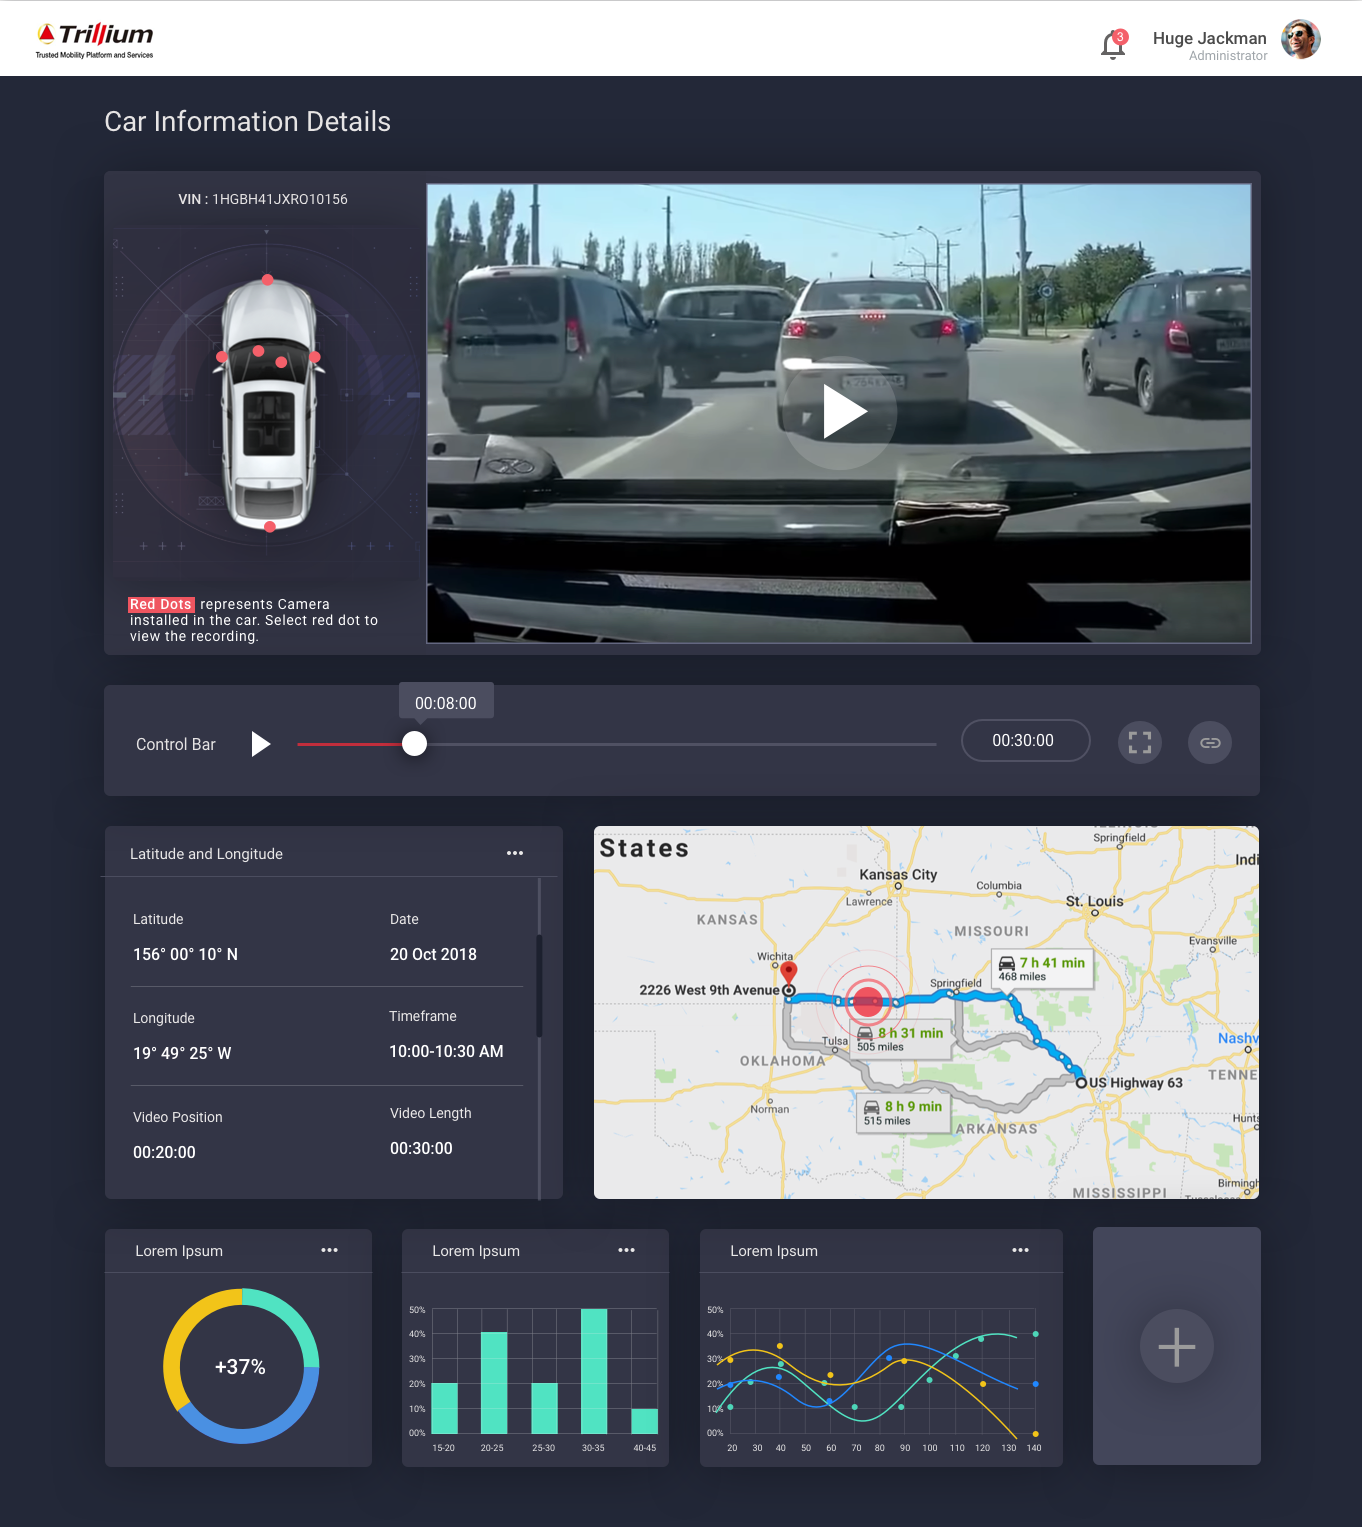
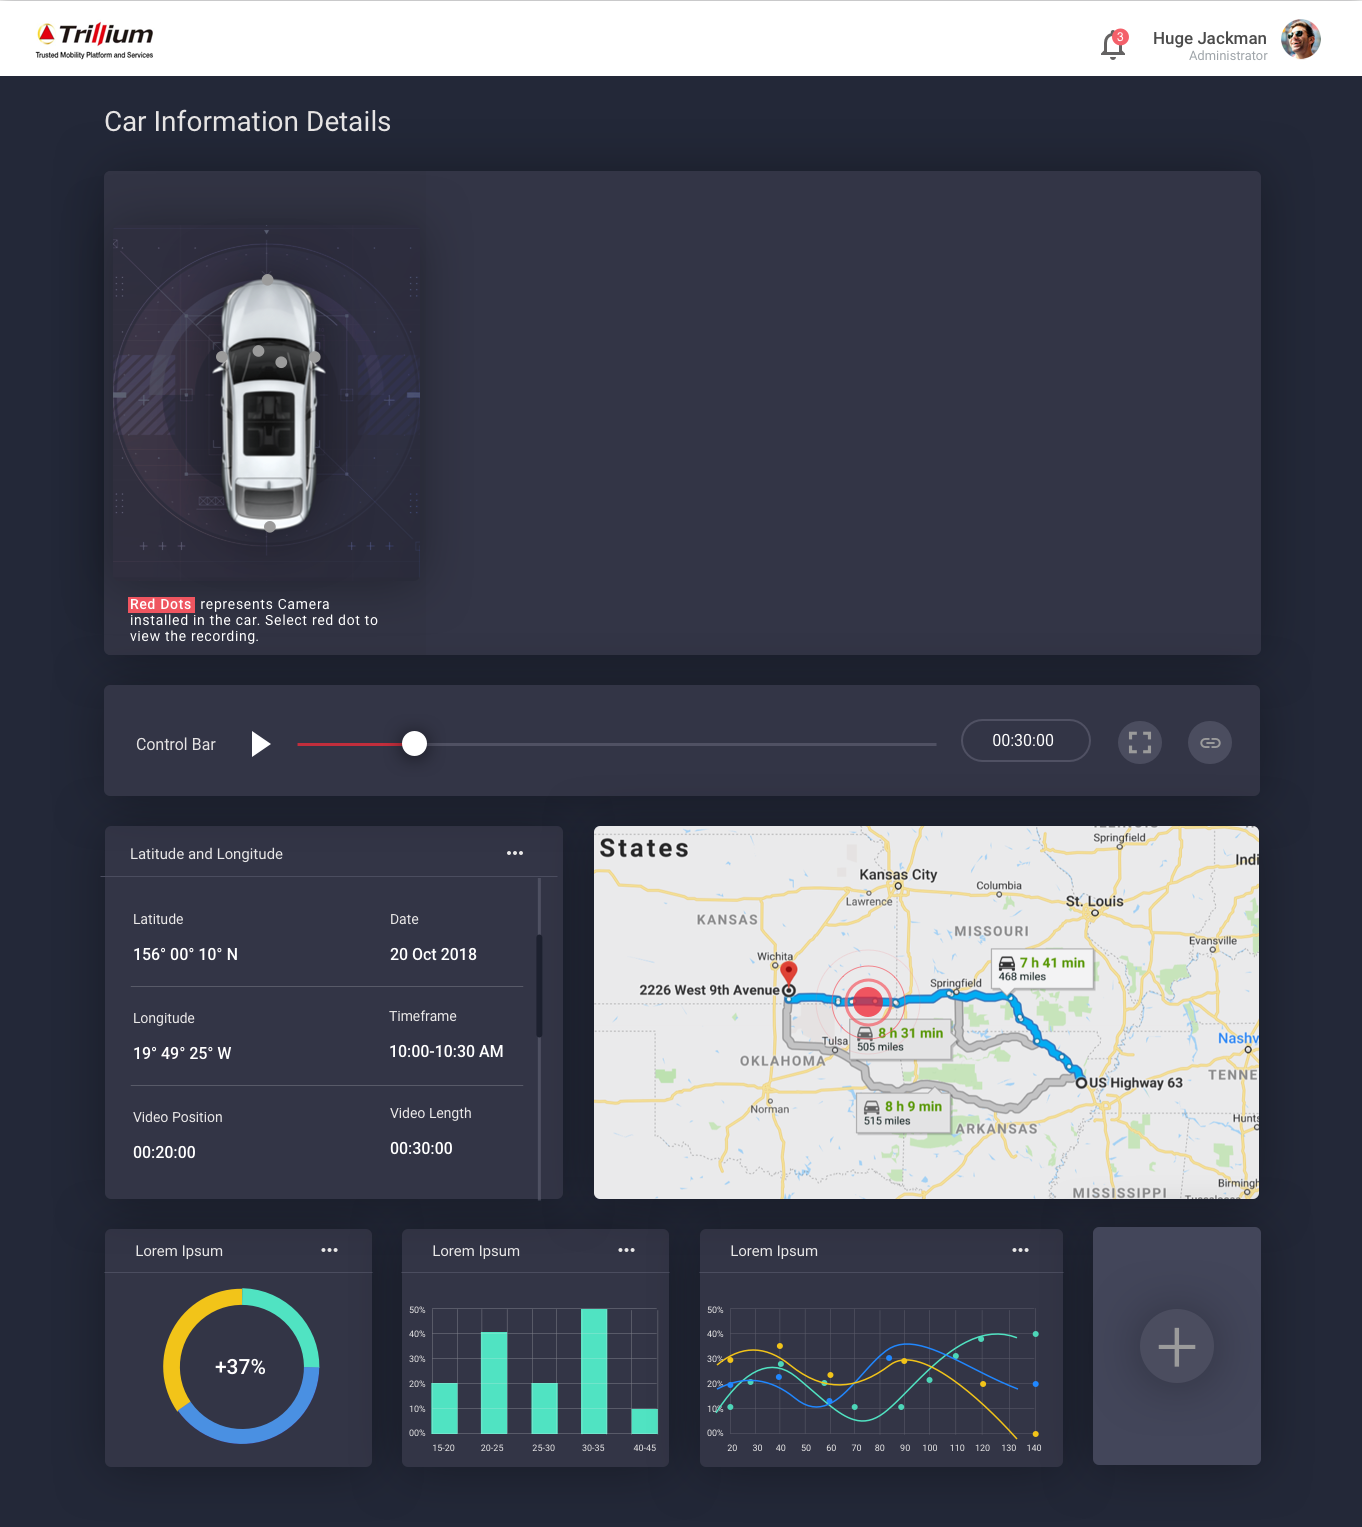
imcorporated changes for control bar

Changed region(s): [[0.2775, 0.0923, 0.9251, 0.4925], [0.185, 0.2155, 0.2159, 0.2462]]

diff --git a/src/components/user/car-details/carDetail.js b/src/components/user/car-details/carDetail.js
@@ -97,7 +97,7 @@ class CarDetail extends Component {
             this.setState({ cardata: response.data });
             this.setState({ accidentData: response.data.accidentFlagData[0] });
             //this.setState({ camdata : response.data.cardata })
-            this.updateVideo("carvin121212_cam1");
+            this.updateVideo(response.data.streamData[0].name);
           }
         } else {
           this.setState({ modalFlag: false });
@@ -151,20 +151,17 @@ class CarDetail extends Component {
     }
     // update seekbar
     // this.player.on("timeupdate", this.seekTimeUpdate);
-    // Pause video if playing
+    // Reload video if camra change
     this.player.pause();
     // sync map with video
-
     this.refs.googleMap.setRoutes();
     this.refs.googleMap.resetStartingPosition();
+    this.refs.googleMap.stopMovement();
     this.setLatLng({ lat: () => 0, lng: () => 0 });
     this.player.on("play", () => {
       if (this.isMapActive === 1) {
         this.refs.googleMap.startAnimation(this.map, 0);
-
-        // this.refs.googleMap.setRoutes();
         this.isMapActive = 2;
-        console.log("playyyyyyyyyyy");
       }
       if (this.isMapActive === 3) {
         this.refs.googleMap.startMovement();
@@ -186,8 +183,12 @@ class CarDetail extends Component {
   renderSensor(streamData) {
     if (streamData) {
       return streamData.map((data, i) => {
+        if (this.props.match.params.vin === "123456") {
+          i++;
+          i++;
+        }
         i++;
-        let activeClass = i === 1 ? "active" : "";
+        let activeClass = i === 1 || i === 3 ? "active" : "";
         const classN = `sensor pos-${i} ${activeClass}`;
         return (
           <span
@@ -304,10 +305,10 @@ class CarDetail extends Component {
           <div className="row ">
             <div className="col-12 d-flex">
               <div className="car-image">
+                <div className="car-id">VIN: {this.props.match.params.vin}</div>
                 {this.renderSensor(this.state.cardata.streamData)}
               </div>
               <div className="car-video">
-                <div className="car-id">{this.props.match.params.vin}</div>
                 <div className="video-container">
                   <video
                     id="car-video"

diff --git a/src/components/user/car-details/carDetail.scss b/src/components/user/car-details/carDetail.scss
@@ -20,37 +20,31 @@
       border: 2px solid #ff3b3b;
       cursor: pointer;
       transition: all 0.3s;
+      background-color: #e6761b;
+      border-color: #ffa019;
+      &:hover {
+        background-color: #ff0000;
+        border-color: rgba(253, 160, 160, 0.4);
+      }
       &.active {
-        background-color: #0090a5 !important;
-        border-color: rgba(77, 232, 255, 0.4) !important;
+        background-color: #ff0000;
+        border-color: rgba(253, 160, 160, 0.4);
       }
       &.pos-1 {
         left: 33%;
         top: 45px;
-        background-color: #ff9600;
-        border-color: #ffb346;
-        &:hover {
-          background-color: #0090a5;
-          border-color: rgba(77, 232, 255, 0.4);
-        }
       }
       &.pos-2 {
         left: 33.5%;
         top: 61.5%;
-        background-color: #ff9600;
-        border-color: #ffb346;
-        &:hover {
-          background-color: #0090a5;
-          border-color: rgba(77, 232, 255, 0.4);
-        }
       }
       &.pos-3 {
-        left: 27%;
-        top: 104px;
+        left: 21.5%;
+        top: 121px;
       }
       &.pos-4 {
-        left: 41%;
-        top: 104px;
+        left: 44.5%;
+        top: 120px;
       }
       &.pos-5 {
         left: 41%;
@@ -127,11 +121,10 @@
   }
   .car-id {
     position: absolute;
-    top: -62px;
+    top: -50px;
     width: 275px;
-    right: 34px;
     padding: 10px;
-    text-align: center;
+    color: #fff;
   }
 
   .lat-logn-details {

diff --git a/src/assets/styles/_global.scss b/src/assets/styles/_global.scss
@@ -52,10 +52,6 @@ body {
     .vjs-big-play-button {
       display: none;
     }
-  }
-}
-.car-details {
-  .video-js {
     .vjs-control-bar {
       display: flex !important;
       visibility: visible;
@@ -63,7 +59,7 @@ body {
       transition: visibility 0.1s;
       height: 111px;
       bottom: -141px;
-      width: 1039px;
+      width: 964px;
       left: -203px;
       font-size: 23px;
       align-items: center;
@@ -107,6 +103,18 @@ body {
       }
     }
   }
+  .vjs-icon-replay:before,
+  .video-js .vjs-play-control.vjs-ended .vjs-icon-placeholder:before {
+    content: "\F101";
+  }
+  .vjs-icon-fullscreen-enter:before,
+  .video-js .vjs-fullscreen-control .vjs-icon-placeholder:before {
+    background-color: #4b4d5f;
+    font-size: 25px;
+    padding: 9px;
+    border-radius: 100%;
+    color: #fff;
+  }
 }
 
 .car-details .video-js .vjs-big-play-button .vjs-icon-placeholder:before,
@@ -145,7 +153,7 @@ body {
     width: 168px;
     height: 33px;
   }
-  .btn-access{
+  .btn-access {
     background-color: #f2c419;
     color: #000000;
   }
